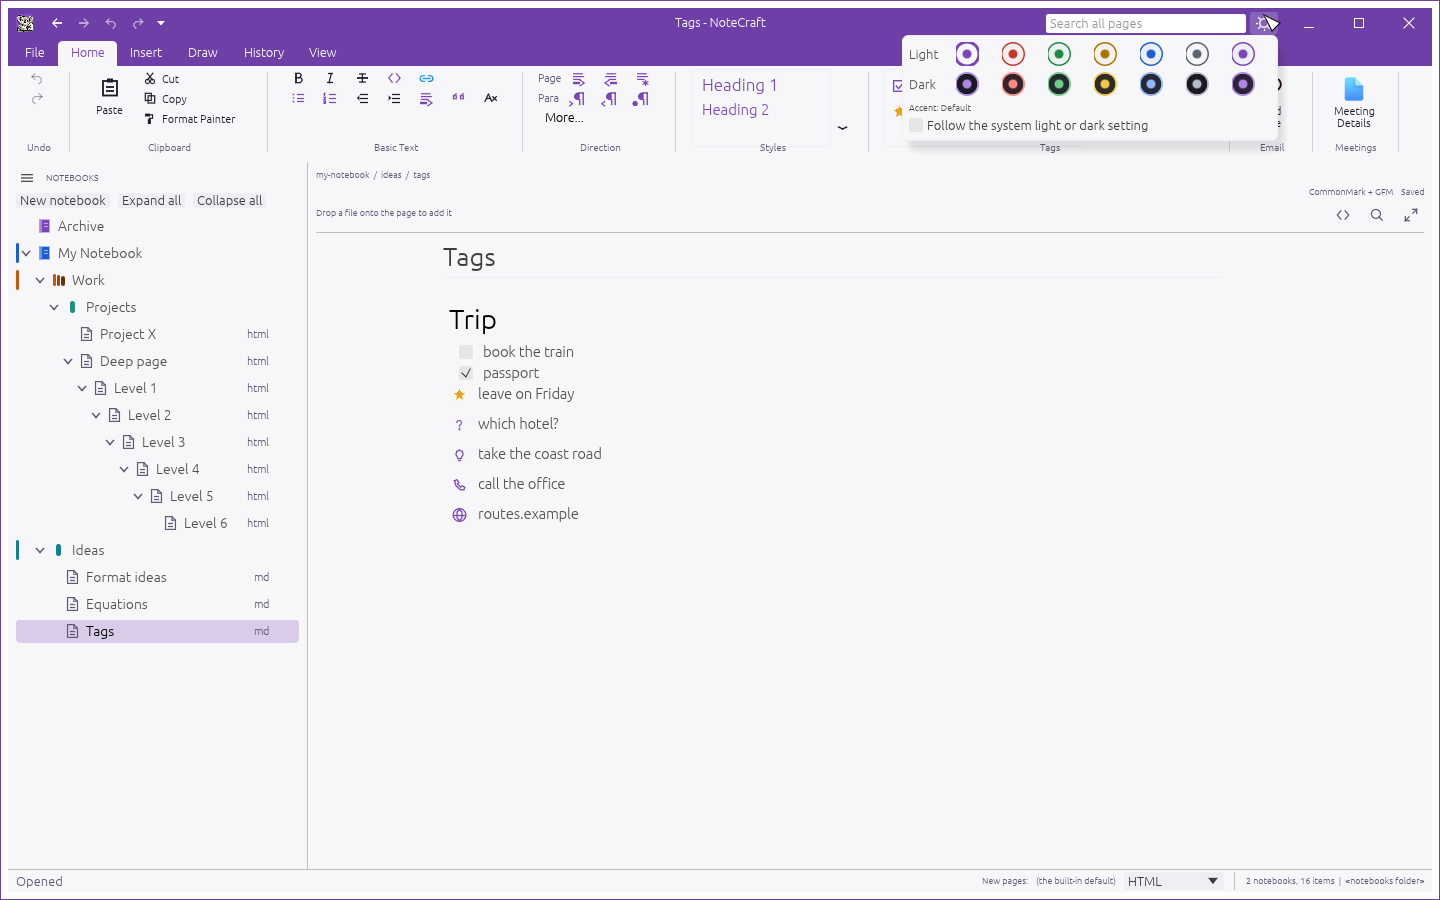
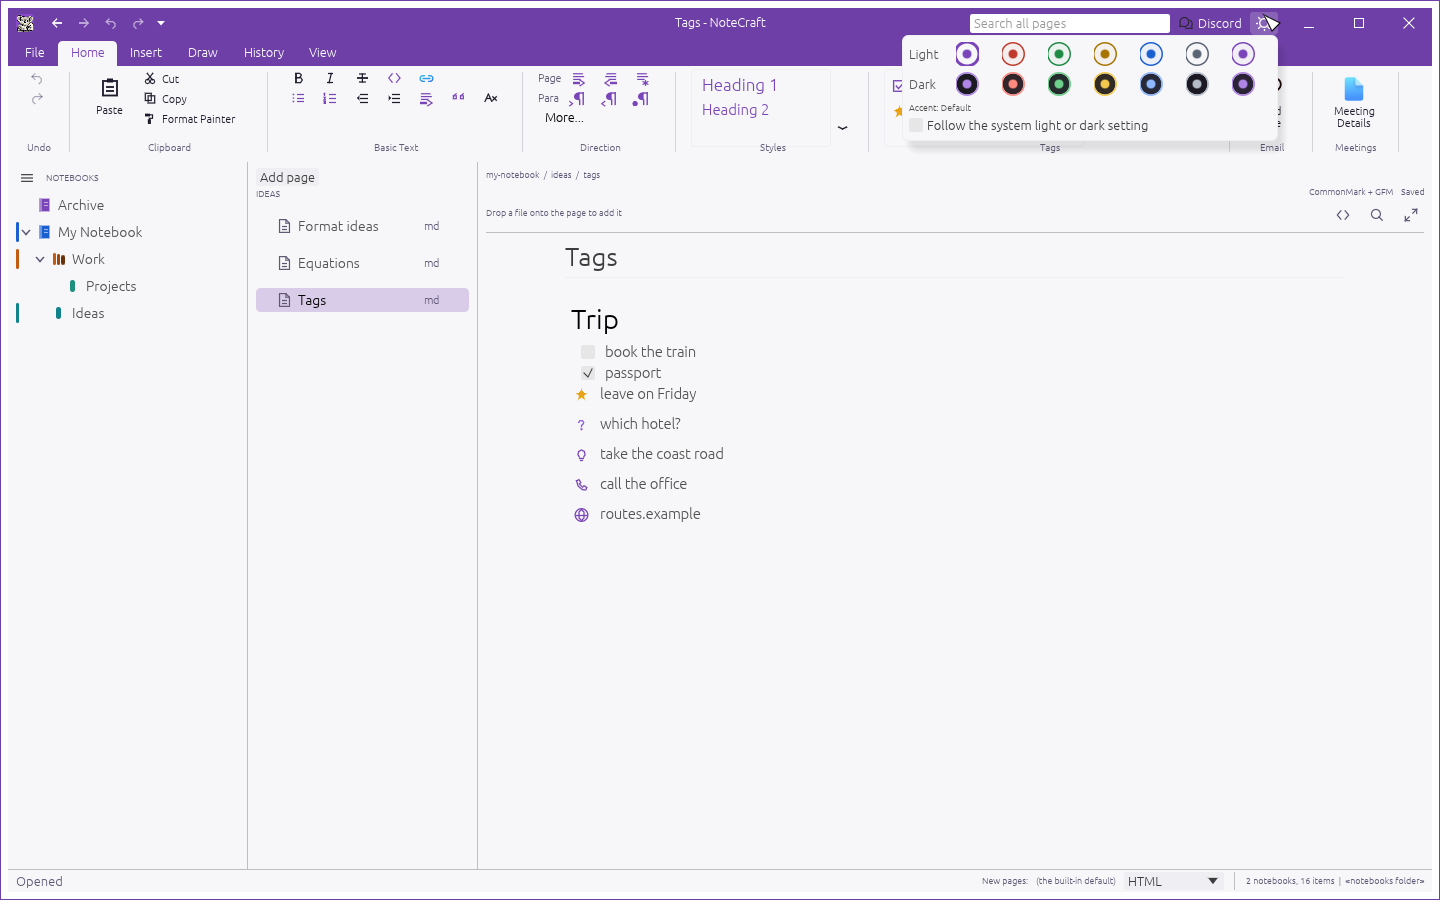
docs: regenerate the screenshots with the header's Discord link

diff --git a/SKILLS/nc-ua/screenshot-audit.md b/SKILLS/nc-ua/screenshot-audit.md
@@ -3,7 +3,7 @@
 Every picture NoteCraft ships, what made it, where it is used, and when it was last checked.
 Update this file in the same change that regenerates a picture. `nc-ua` owns it.
 
-Last full audit: 2026-10-25, branch `docs/refresh-screenshots` (commit `de36076`).
+Last full audit: 2026-10-25, branch `feat/header-discord-link` (regenerated after the header change, commit `8d0c15d`). Only `hero.png` and `ribbon-insert.png` were checked by eye, and hero was re-checked after the Discord link.
 
 ## A. README and release pictures (`docs/images/`)
 
